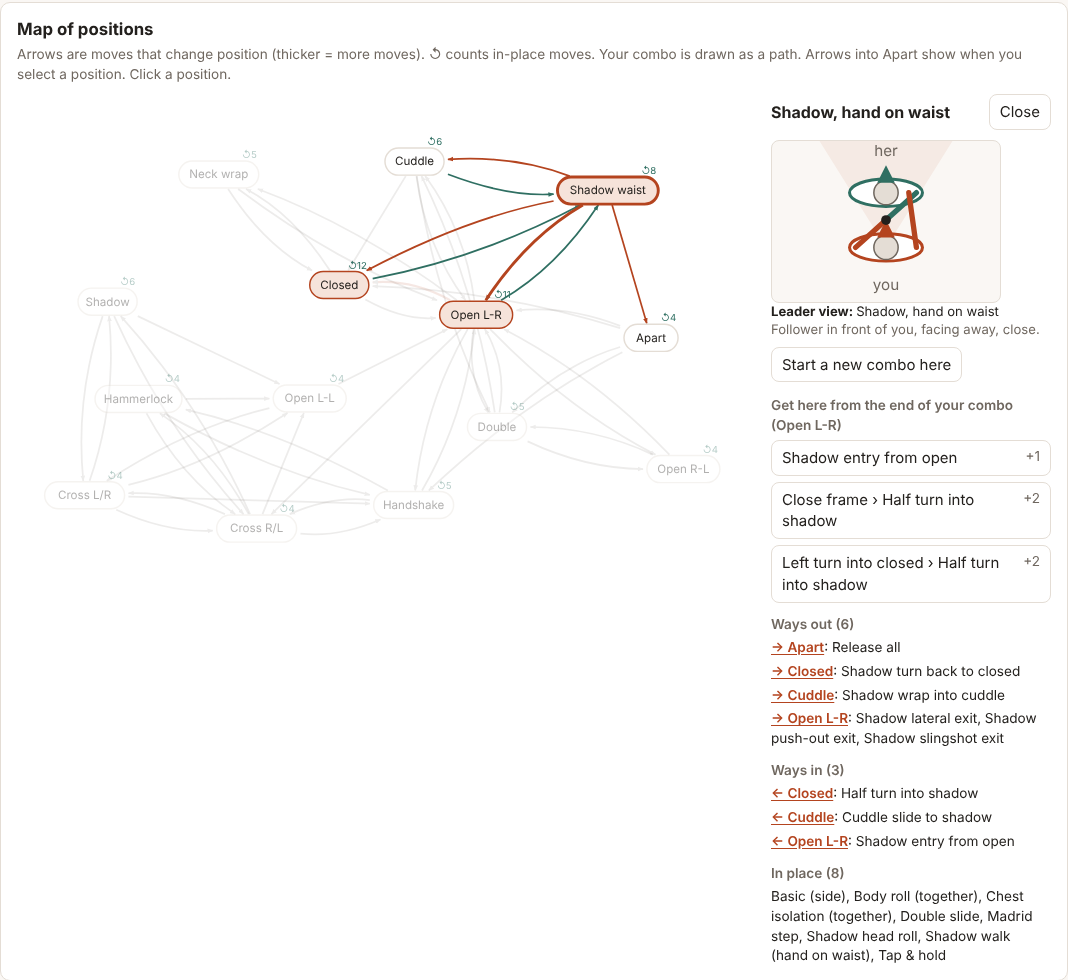
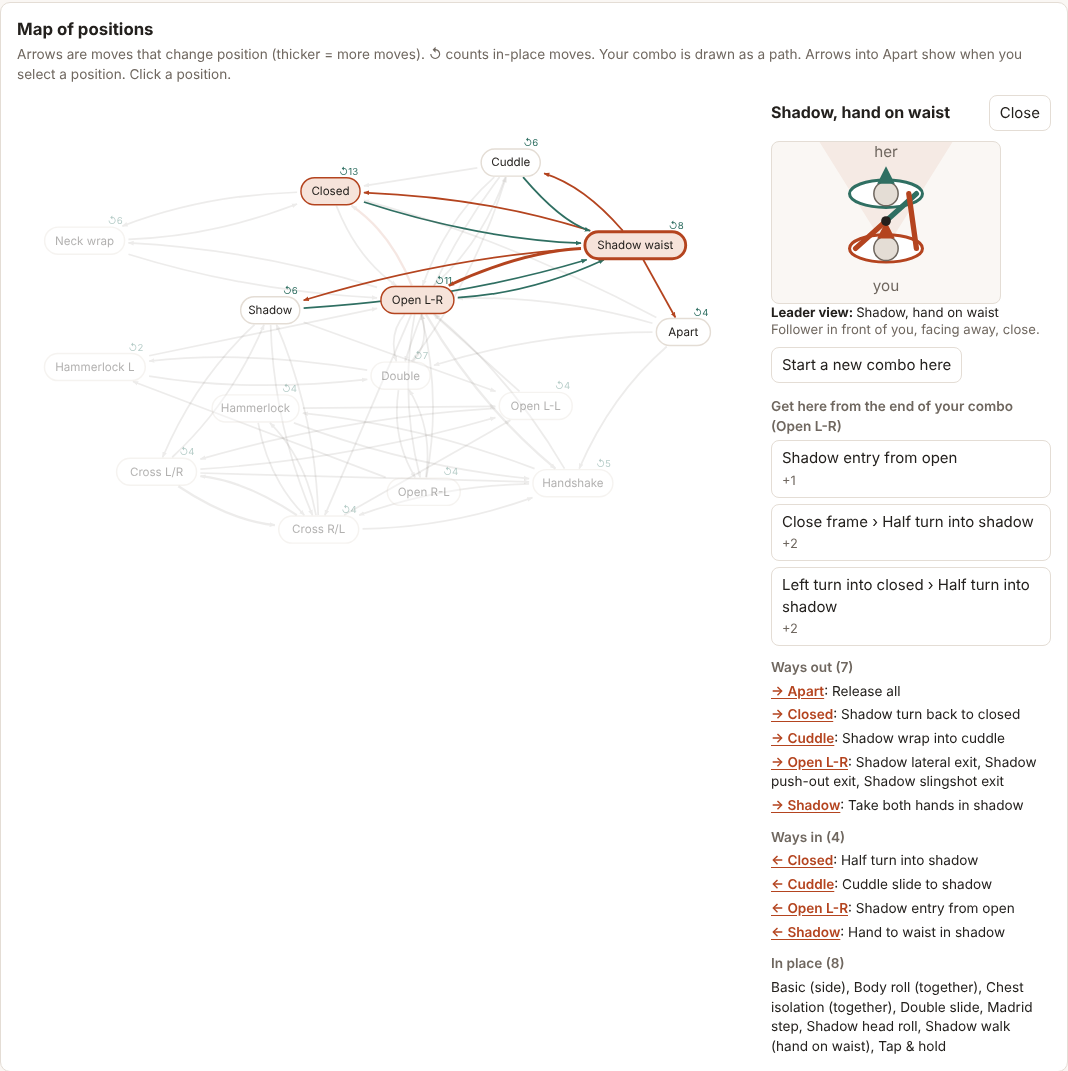
Extend UI fuzz to levels, library, add-move form and copy-as-text; a11y labels; fresh screenshots

diff --git a/web/index.html b/web/index.html
@@ -78,7 +78,7 @@
   <details class="ref" id="library-section">
     <summary>Move library</summary>
     <div class="lib-controls">
-      <input id="lib-search" type="search" placeholder="Search moves, notes or positions…">
+      <input id="lib-search" type="search" aria-label="Search moves" placeholder="Search moves, notes or positions…">
       <select id="lib-kind" aria-label="Kind">
         <option value="all">all kinds</option>
         <option value="move">move</option>

diff --git a/web/app.js b/web/app.js
@@ -311,7 +311,7 @@
       return !state.search || m.name.toLowerCase().includes(state.search.toLowerCase());
     });
     const search = h('input', {
-      class: 'search', type: 'search', placeholder: 'Filter moves…', value: state.search,
+      class: 'search', type: 'search', placeholder: 'Filter moves…', 'aria-label': 'Filter next moves', value: state.search,
       oninput: (ev) => {
         state.search = ev.target.value;
         const pos = ev.target.selectionStart;
